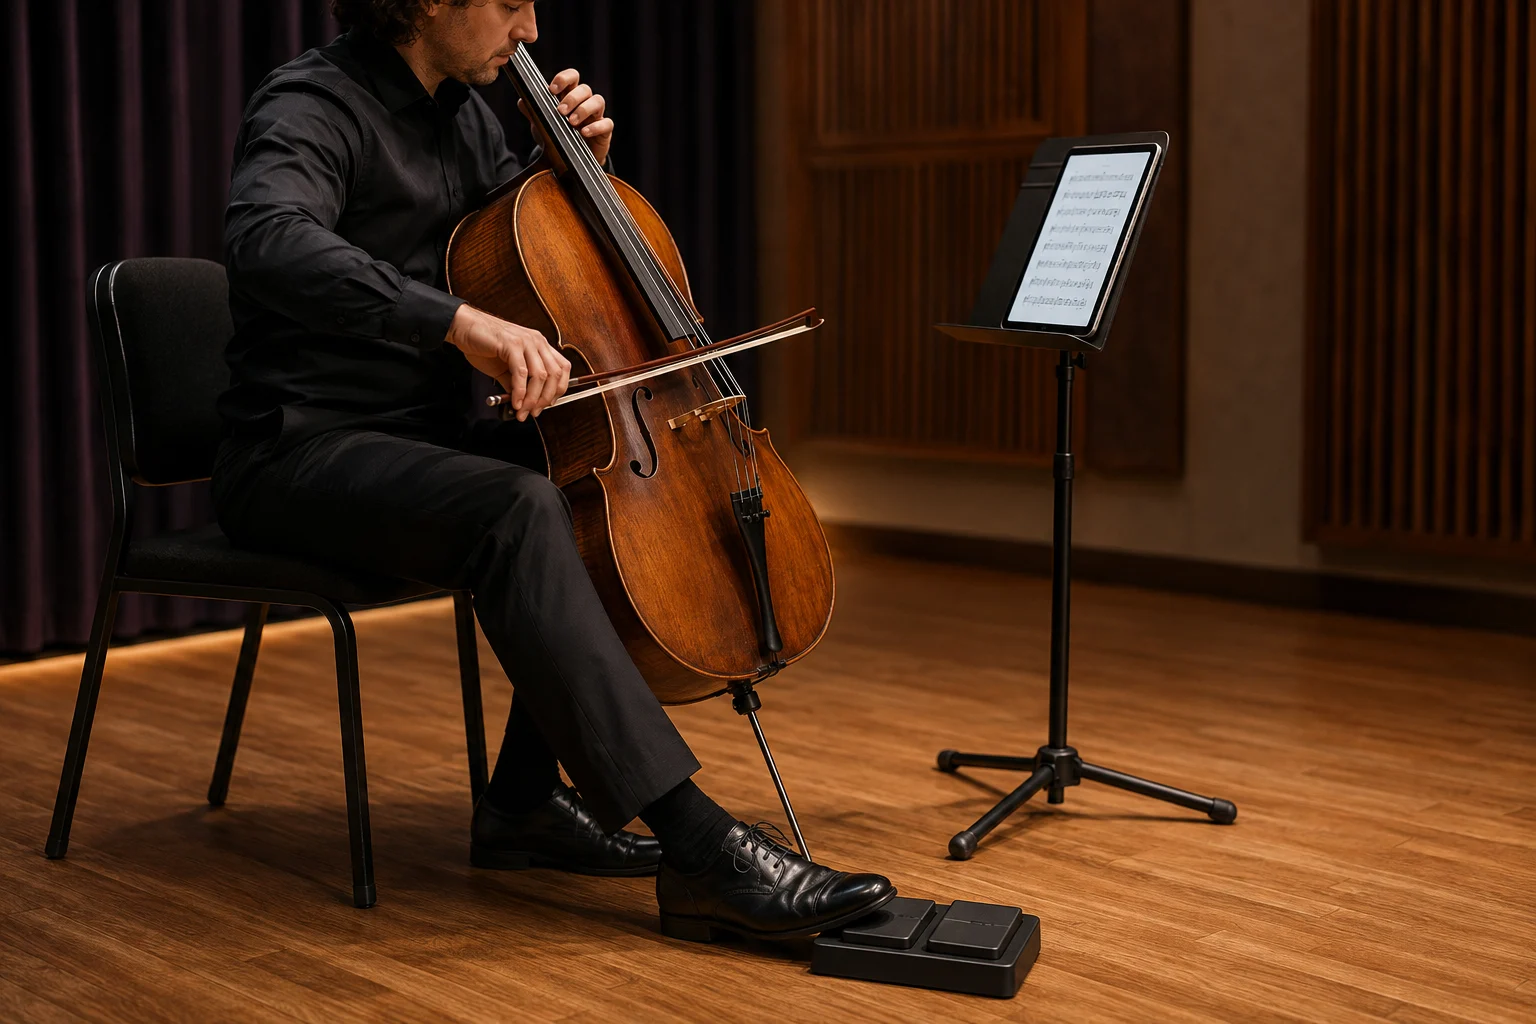
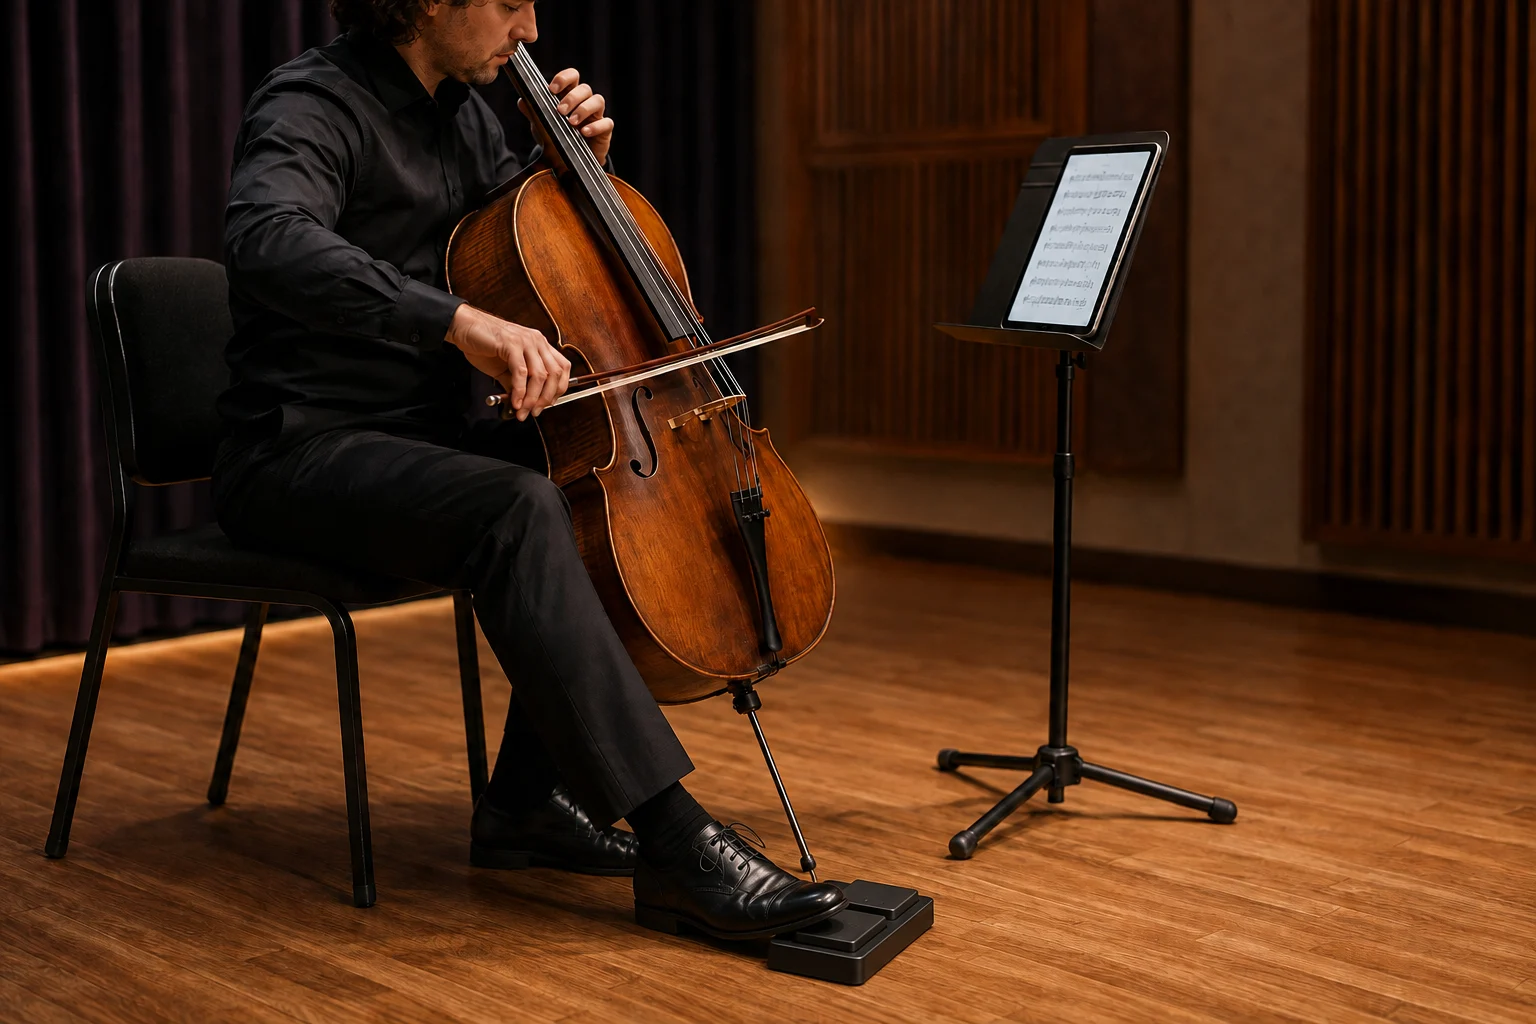
Correct pedal orientation and placement in performance scene

diff --git a/docs/PEDAL_ALIGNMENT.md b/docs/PEDAL_ALIGNMENT.md
@@ -1,0 +1,50 @@
+# Website pedal alignment correction · 2026-09-07
+
+User request: 脚踏位置摆放不合理，要跟人平行，方便左右换页。
+
+Current selected image: `pedal-page-turn-aligned-v2.png`, exported to the existing `assets/scenes/pedal_page_turn.webp`. The original and rejected first movement-only edit remain archived outside the website. Two native imagegen edits were used; no CLI/API generation or manual image compositing was used.
+
+The site owner inspected v2 and selected the visible change in orientation and closer foot position. The controller now has a near switch under the toe and an exposed switch across from it, with the heel resting on the floor. The first edit only moved the controller and was rejected. The upper scene is broadly preserved; tiny synthetic score details changed during editing.
+
+The asset reviewer initially evaluated the retry against an added numeric screen-angle target; that observation is preserved below. Perspective does not preserve 3D right angles. Selection is a qualitative visual improvement to the player-relative position, not a calibrated alignment measurement, ergonomic certification or demonstration of real page turning. The website's existing hardware-validation and AI-scene disclosures remain unchanged.
+
+## Second edit: prompt and asset-review history
+
+# Pedal alignment second edit provenance
+
+- Date: 2026-09-07.
+- Source image: `pedal-page-turn.png`, original preserved unchanged and reused as the edit target.
+- Edited image: `pedal-page-turn-aligned-v2.png`.
+- First rejected edit: `pedal-alignment-attempt1.png`, retained and not used as the second edit input.
+- Tool: native built-in OpenAI imagegen, one explicitly requested stronger retry.
+- Dimensions: 1536 × 1024 PNG, landscape 3:2.
+- Origin: AI-generated concept photography. No product behavior or hardware function is demonstrated.
+- No website checkout or Sites tools were used.
+
+## Visual evaluation: rotation changed, strict target only partially met
+
+The base silhouette and top-face perspective visibly changed. The original pad-center axis ran almost horizontally from image-left to image-right. The second edit has a near pad at lower-left and a far pad at upper-right. The foreground toe lies on the near pad and the far pad is exposed. The unit is closer to the foot and the heel remains low.
+
+By approximate visual estimation, the pad axis is now about 35–40 degrees upward-right from image horizontal. The shoe heel-to-toe axis remains nearly horizontal, about 5 degrees upward-right. Therefore their cross-angle is only about 30–35 degrees. This is a real rotation, but it does NOT fully achieve the requested steep diagonal (vertical center separation greater than horizontal) or approximately perpendicular projected axes. The orientation remains an open concern; do not claim the geometry is fully corrected.
+
+The upper pose, cello, tablet/stand, warm room and lighting remain broadly preserved. As with the first edit, tiny score notation details changed. Cropped upper head and cello scroll remain inherited from the original. This is a visual assessment, not a measured ergonomic validation.
+
+The actual change and remaining concern were reported to the parent before any additional retry. No further retry was made.
+
+## Exact edit prompt
+
+```text
+Use case: precise-object-edit
+Edit target: original photograph of a seated cellist, tablet and two-switch foot controller. Correct ONLY the controller and minimal adjacent right foot / lower ankle.
+
+CRITICAL REQUIRED CHANGE: PHYSICALLY ROTATE THE WHOLE TWO-PAD BASE THROUGH ROUGHLY A QUARTER TURN (90 DEGREES) AROUND THE VERTICAL FLOOR NORMAL. This must visibly change its top-face silhouette and perspective. Do not merely slide, resize or lightly skew the existing horizontal arrangement.
+
+Analyze the original photograph: the foreground shoe's heel-to-toe axis runs mostly SCREEN LEFT TO SCREEN RIGHT. The original two pedal pads are also spread nearly horizontally SCREEN LEFT TO SCREEN RIGHT, which is wrong. In the corrected photograph, the line joining the TWO PAD CENTERS MUST instead run on a STEEP DIAGONAL from LOWER LEFT FOREGROUND to UPPER RIGHT BACKGROUND in the image. The near pad is lower and slightly left; the far pad is higher and slightly right. The image vertical separation of their centers must be greater than their image horizontal separation. Their shared long two-pad row must visibly cross the shoe's long axis, approximately perpendicular to it in projection, NOT remain horizontal along the shoe.
+
+Required geometry in 3D: two pads are side by side across the MUSICIAN'S own lateral left-right hip axis, parallel to the chair seat front edge. They are the SAME forward distance from the player's body; one appears farther into image depth only because the camera is at the player's right side. The controller rear long edge faces the musician, with each pad's short front-to-back dimension following the shoe toe direction. Imagine an ordinary compact wireless left/right page-turn controller set squarely in front of a seated musician and viewed from the side, rather than facing the camera. It has ONE thin black rectangular base and exactly TWO broad flat switches separated by a narrow gap; no writing, no lights needed. Preserve full believable floor contact and contact shadows.
+
+Place the entire rotated controller close to the right shoe's neutral resting area, NOT off to the far side of the room. Put the foreground RIGHT shoe toe lightly on the NEARER IMAGE-BOTTOM pad, with heel naturally resting on the floor behind it. The farther IMAGE-UPPER pad is entirely exposed and reachable by a small sideways shift of the same right foot. Keep the shoe directed naturally forward like the other shoe; DO NOT rotate the feet sideways to match the old pedal orientation. Small local changes to shoe, ankle, trouser cuff or lower leg are permitted to remove stretch. Both pad tops must remain recognizable. The far pad cannot remain image-right of the near pad on a nearly horizontal line: steep lower-left-to-upper-right pad axis is essential.
+
+Preserve the same musician identity, upper playing posture, both hands playing the cello, bow, cello, chair, tablet and stand, warm room, floor, lighting, photographic realism and exact 1536×1024 landscape 3:2 composition. Change no other objects. No additional device, pedal, limbs, cables, labels, arrows, diagrams, inset, motion effect, page-turn animation, sustain pedal or guitar effect unit. One coherent photograph.
+```
+

diff --git a/README.md b/README.md
@@ -44,6 +44,10 @@ Noto Sans SC／TC 400、600、700 各一份，均为 Google Fonts 按公开 ARB 
 
 “为音乐而作”增加小提琴教学、乐团演出与脚踏翻页三张原创场景图。桌面先并排教学与乐团，再用宽行展示脚踏、谱架和双手演奏的关系；窄屏按相同阅读顺序纵向排布。原有钢琴主视觉与准备流程保留。新增 14 条文案及图片替代描述，4 个 ARB 各 78 条，静态三语文档同步包含图片、替代文本与设备验证边界。
 
-三张 WebP 各 1536×1024，保留完整 3:2 构图，质量 86，合计 **443,760 字节**。未裁切、添加品牌或模拟操作动画。来源和限制见 `docs/SCENE_PROVENANCE.md`；运行时文件大小与 SHA-256 见 `docs/SCENE_ASSETS.json`。场景是合成使用示意，不是实际用户案例、课堂管理、乐团同步或硬件认证证据。脚踏图表现一个脚踩开关的静止瞬间，不能作为已完成翻页的证明；正文明确兼容键盘式脚踏和真机仍待验证。
+三张 WebP 各 1536×1024，保留完整 3:2 构图，质量 86，合计 **442,966 字节**。未裁切、添加品牌或模拟操作动画。来源和限制见 `docs/SCENE_PROVENANCE.md`；运行时文件大小与 SHA-256 见 `docs/SCENE_ASSETS.json`。场景是合成使用示意，不是实际用户案例、课堂管理、乐团同步或硬件认证证据。脚踏图表现一个脚踩开关的静止瞬间，不能作为已完成翻页的证明；正文明确兼容键盘式脚踏和真机仍待验证。
 
 本轮仍未改变主应用、185 条需求记录、访问受众或正式域名。
+
+### 脚踏位置修正 · 2026-09-07
+
+按用户反馈，脚踏图改用 `pedal-page-turn-aligned-v2.png` 的 WebP 导出：双键的排列转到演奏者左右方向的地面透视，并靠近右脚的自然落点，另一按键保持可见。原始图和未采用的首轮移动结果保留在设计目录。只替换这张图片，不改布局、功能文案或硬件支持范围。编辑提示词与检查记录见 `docs/PEDAL_ALIGNMENT.md`。

diff --git a/docs/SCENE_PROVENANCE.md b/docs/SCENE_PROVENANCE.md
@@ -1,5 +1,7 @@
 # CantaVue website scenario image provenance
 
+Current pedal asset: the original pedal generation below has been superseded by the user-requested alignment edit, exported from `pedal-page-turn-aligned-v2.png`. See [alignment edit record](PEDAL_ALIGNMENT.md) and `SCENE_ASSETS.json` for the current selection and hash. The original generation notes below are historical.
+
 Created 2026-09-07 for the website scenario imagery request. Exactly three independent native built-in OpenAI imagegen calls were issued concurrently, one for each requested image. No variants, edits, retries, external image references, private scores, or real product screenshots were used. No website checkout was edited and no Sites tools or skills were invoked.
 
 All final assets were copied unchanged from the native generation output into this directory. File dimensions were independently checked: each is 1536 × 1024 pixels, PNG, landscape 3:2. The images are AI-generated conceptual editorial lifestyle photography; notation, people, hardware, and environments are synthetic. No playable-score accuracy or device behavior is claimed.
